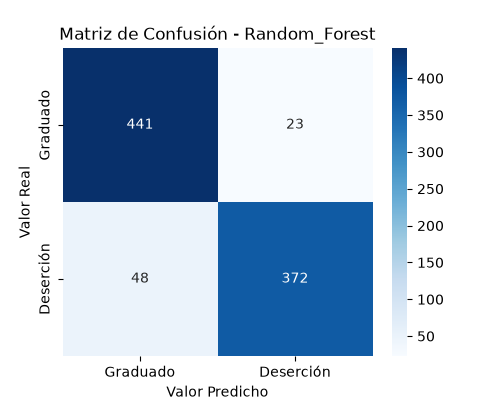
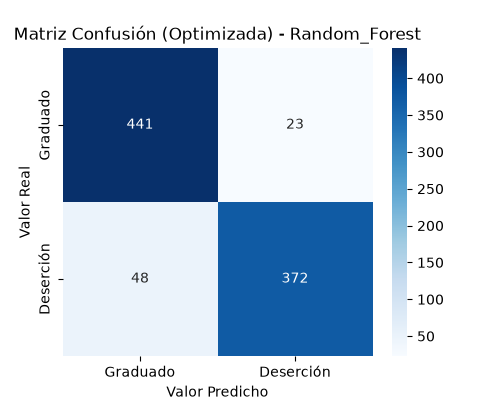
feat(ml): profesionalizar pipeline con GridSearchCV y SelectKBest

Changed region(s): [[0.03, 0.06, 0.84, 0.12]]

diff --git a/notebooks/src/model.py b/notebooks/src/model.py
@@ -2,51 +2,98 @@ import os
 import joblib
 import matplotlib.pyplot as plt
 import seaborn as sns
+from sklearn.pipeline import Pipeline
+from sklearn.preprocessing import StandardScaler
+from sklearn.feature_selection import SelectKBest, f_classif
 from sklearn.linear_model import LogisticRegression
 from sklearn.ensemble import RandomForestClassifier
-from sklearn.tree import DecisionTreeClassifier
-from sklearn.metrics import accuracy_score, confusion_matrix
-from sklearn.model_selection import cross_val_score
+from sklearn.model_selection import GridSearchCV
+from sklearn.metrics import accuracy_score, confusion_matrix, classification_report, roc_auc_score
 from notebooks.src.config import DIRECTORIO_GRAFICOS, DIRECTORIO_MODELOS
 
 def fase_4_entrenamiento_y_experimentos(X_entrenamiento, y_entrenamiento, X_prueba, y_prueba):
-    print('\n=== FASE 4: ENTRENAMIENTO Y EXPERIMENTOS ===')
-    modelos_a_evaluar = {'Regresion_Logistica': LogisticRegression(max_iter=1000, random_state=42), 'Arbol_de_Decision': DecisionTreeClassifier(random_state=42), 'Random_Forest': RandomForestClassifier(n_estimators=100, random_state=42)}
-    resultados_precision = {}
+    print('\n=== FASE 4: ENTRENAMIENTO AVANZADO Y TUNING (GridSearchCV) ===')
+    
+    # Definición de Pipelines base
+    pipe_lr = Pipeline([
+        ('scaler', StandardScaler()),
+        ('selector', SelectKBest(score_func=f_classif)),
+        ('classifier', LogisticRegression(random_state=42, max_iter=2000))
+    ])
+    
+    pipe_rf = Pipeline([
+        ('scaler', StandardScaler()),
+        ('selector', SelectKBest(score_func=f_classif)),
+        ('classifier', RandomForestClassifier(random_state=42))
+    ])
+    
+    # Grillas de Hiperparámetros
+    param_grid_lr = {
+        'selector__k': [10, 15, 'all'],
+        'classifier__C': [0.1, 1.0, 10.0]
+    }
+    
+    param_grid_rf = {
+        'selector__k': [10, 15, 'all'],
+        'classifier__n_estimators': [50, 100],
+        'classifier__max_depth': [None, 10, 20]
+    }
+    
+    grids = {
+        'Regresion_Logistica': GridSearchCV(pipe_lr, param_grid_lr, cv=5, scoring='f1', n_jobs=-1),
+        'Random_Forest': GridSearchCV(pipe_rf, param_grid_rf, cv=5, scoring='f1', n_jobs=-1)
+    }
+    
+    resultados_f1 = {}
     mejor_modelo = None
-    mejor_precision = 0
-    for nombre_modelo, modelo in modelos_a_evaluar.items():
-        print(f'\n  [Experimento] Entrenando modelo: {nombre_modelo}...')
-        puntajes_cv = cross_val_score(modelo, X_entrenamiento, y_entrenamiento, cv=5, scoring='accuracy')
-        print(f'    - Precisión Validación Cruzada: {puntajes_cv.mean():.4f} (+/- {puntajes_cv.std() * 2:.4f})')
-        modelo.fit(X_entrenamiento, y_entrenamiento)
-        predicciones = modelo.predict(X_prueba)
-        precision_prueba = accuracy_score(y_prueba, predicciones)
-        resultados_precision[nombre_modelo] = precision_prueba
-        print(f'    - Precisión en Prueba (Accuracy): {precision_prueba:.4f}')
+    mejor_f1 = 0
+    nombre_mejor_modelo = ""
+    
+    for nombre_modelo, grid in grids.items():
+        print(f'\n  [GridSearchCV] Optimizando hiperparámetros para: {nombre_modelo}...')
+        grid.fit(X_entrenamiento, y_entrenamiento)
+        
+        modelo_optimizado = grid.best_estimator_
+        print(f'    - Mejores parámetros: {grid.best_params_}')
+        
+        predicciones = modelo_optimizado.predict(X_prueba)
+        predicciones_proba = modelo_optimizado.predict_proba(X_prueba)[:, 1]
+        
+        # Calcular múltiples métricas
+        roc_auc = roc_auc_score(y_prueba, predicciones_proba)
+        
+        print(f'    - Reporte de Clasificación en Prueba:\n{classification_report(y_prueba, predicciones)}')
+        print(f'    - ROC-AUC: {roc_auc:.4f}')
+        
+        # Guardaremos el modelo en base a su score del Grid (F1 validacion cruzada)
+        score_cv = grid.best_score_
+        resultados_f1[nombre_modelo] = score_cv
+        
         matriz_conf = confusion_matrix(y_prueba, predicciones)
         plt.figure(figsize=(5, 4))
         sns.heatmap(matriz_conf, annot=True, fmt='d', cmap='Blues', xticklabels=['Graduado', 'Deserción'], yticklabels=['Graduado', 'Deserción'])
-        plt.title(f'Matriz de Confusión - {nombre_modelo}')
+        plt.title(f'Matriz Confusión (Optimizada) - {nombre_modelo}')
         plt.ylabel('Valor Real')
         plt.xlabel('Valor Predicho')
         plt.savefig(os.path.join(DIRECTORIO_GRAFICOS, f'matriz_confusion_{nombre_modelo}.png'))
         plt.close()
-        if precision_prueba > mejor_precision:
-            mejor_precision = precision_prueba
-            mejor_modelo = modelo
-    nombre_mejor_modelo = [k for k, v in resultados_precision.items() if v == mejor_precision][0]
-    return (resultados_precision, mejor_modelo, nombre_mejor_modelo)
+        
+        if score_cv > mejor_f1:
+            mejor_f1 = score_cv
+            mejor_modelo = modelo_optimizado
+            nombre_mejor_modelo = nombre_modelo
+            
+    return (resultados_f1, mejor_modelo, nombre_mejor_modelo)
 
 def fase_5_evaluacion_y_seleccion(resultados, nombre_mejor_modelo):
     print('\n=== FASE 5: EVALUACIÓN Y SELECCIÓN ===')
-    print('  Resumen de Experimentos (Precisión / Accuracy):')
-    for nombre, precision in resultados.items():
-        print(f'    * {nombre}: {precision:.4f}')
-    print(f'\n  >> EL MEJOR MODELO ELEGIDO ES: {nombre_mejor_modelo} con {resultados[nombre_mejor_modelo]:.4f} de precisión.')
+    print('  Resumen de Experimentos (F1-Score en Validación Cruzada):')
+    for nombre, score in resultados.items():
+        print(f'    * {nombre}: {score:.4f}')
+    print(f'\n  >> EL MEJOR MODELO ELEGIDO ES: {nombre_mejor_modelo} con {resultados[nombre_mejor_modelo]:.4f} de F1-Score.')
 
-def fase_6_guardar_salida(mejor_modelo, escalador):
+def fase_6_guardar_salida(mejor_pipeline):
     print('\n=== FASE 6: EXPORTACIÓN DEL MODELO ===')
-    joblib.dump(mejor_modelo, os.path.join(DIRECTORIO_MODELOS, 'modelo_desercion.pkl'))
-    joblib.dump(escalador, os.path.join(DIRECTORIO_MODELOS, 'escalador.pkl'))
-    print("  -> Modelo y escalador guardados exitosamente en la carpeta 'models/'.")
+    # Guardamos todo el pipeline en un solo archivo
+    joblib.dump(mejor_pipeline, os.path.join(DIRECTORIO_MODELOS, 'pipeline_desercion.pkl'))
+    print("  -> Pipeline completo (Escalador + Selector + Clasificador) guardado como 'pipeline_desercion.pkl'.")

diff --git a/app/modules/prediccion/providers/impl/modelo_provider_impl.py b/app/modules/prediccion/providers/impl/modelo_provider_impl.py
@@ -9,20 +9,20 @@ from app.core.exceptions.mensajes_error import MensajesDeError
 class ModeloProviderImpl(IModeloProvider):
 
     def __init__(self):
-        self.ruta_modelo = os.path.join(os.path.dirname(__file__), '../../../../../models/modelo_desercion.pkl')
+        self.ruta_modelo = os.path.join(os.path.dirname(__file__), '../../../../../models/pipeline_desercion.pkl')
 
     def ejecutar_prediccion(self, estudiante: EstudianteDominio) -> ResultadoDominio:
         if not os.path.exists(self.ruta_modelo):
             raise ExcepcionDeNegocio(MensajesDeError.MODELO_NO_ENTRENADO)
         try:
-            modelo = joblib.load(self.ruta_modelo)
+            pipeline = joblib.load(self.ruta_modelo)
             datos_diccionario = {'Marital status': estudiante.estado_civil, 'Application mode': estudiante.modo_aplicacion, 'Application order': estudiante.orden_aplicacion, 'Course': estudiante.curso, 'Daytime/evening attendance\t': estudiante.asistencia_diurna_nocturna, 'Previous qualification': estudiante.calificacion_previa, 'Admission grade': estudiante.nota_admision, 'Displaced': estudiante.desplazado, 'Educational special needs': estudiante.necesidades_educativas_especiales, 'Debtor': estudiante.deudor, 'Tuition fees up to date': estudiante.mensualidades_al_dia, 'Gender': estudiante.genero, 'Scholarship holder': estudiante.becario, 'Age at enrollment': estudiante.edad_al_matricularse, 'Curricular units 1st sem (enrolled)': estudiante.unidades_curriculares_1er_sem_inscritas, 'Curricular units 1st sem (evaluations)': estudiante.unidades_curriculares_1er_sem_evaluaciones, 'Curricular units 1st sem (approved)': estudiante.unidades_curriculares_1er_sem_aprobadas, 'Curricular units 1st sem (grade)': estudiante.unidades_curriculares_1er_sem_nota}
             datos_df = pd.DataFrame([datos_diccionario])
-            prediccion = modelo.predict(datos_df)[0]
+            prediccion = pipeline.predict(datos_df)[0]
             probabilidad_calculada = 0.0
-            if hasattr(modelo, 'predict_proba'):
-                probabilidades = modelo.predict_proba(datos_df)[0]
-                clases = list(modelo.classes_)
+            if hasattr(pipeline, 'predict_proba'):
+                probabilidades = pipeline.predict_proba(datos_df)[0]
+                clases = list(pipeline.classes_)
                 if 1 in clases:
                     indice_dropout = clases.index(1)
                     probabilidad_calculada = probabilidades[indice_dropout]

diff --git a/notebooks/src/preprocessing.py b/notebooks/src/preprocessing.py
@@ -1,6 +1,5 @@
 import pandas as pd
 from sklearn.model_selection import train_test_split
-from sklearn.preprocessing import StandardScaler
 from imblearn.over_sampling import SMOTE
 
 def fase_3_preprocesamiento(datos: pd.DataFrame):
@@ -19,8 +18,4 @@ def fase_3_preprocesamiento(datos: pd.DataFrame):
     caracteristicas_balanceadas, objetivo_balanceado = smote.fit_resample(caracteristicas, objetivo)
     print('  -> Dividiendo datos en Entrenamiento (80%) y Prueba (20%)...')
     X_entrenamiento, X_prueba, y_entrenamiento, y_prueba = train_test_split(caracteristicas_balanceadas, objetivo_balanceado, test_size=0.2, random_state=42)
-    print('  -> Estandarizando variables numéricas (StandardScaler)...')
-    escalador = StandardScaler()
-    X_entrenamiento_escalado = escalador.fit_transform(X_entrenamiento)
-    X_prueba_escalado = escalador.transform(X_prueba)
-    return (X_entrenamiento_escalado, X_prueba_escalado, y_entrenamiento, y_prueba, escalador)
+    return (X_entrenamiento, X_prueba, y_entrenamiento, y_prueba)

diff --git a/notebooks/pipeline.py b/notebooks/pipeline.py
@@ -17,13 +17,13 @@ def ejecutar_pipeline_completo():
     
     fase_2_analisis_exploratorio(datos)
     
-    X_entrenar, X_prueba, y_entrenar, y_prueba, escalador = fase_3_preprocesamiento(datos)
+    X_entrenar, X_prueba, y_entrenar, y_prueba = fase_3_preprocesamiento(datos)
     
-    resultados, mejor_modelo, nombre_mejor = fase_4_entrenamiento_y_experimentos(X_entrenar, y_entrenar, X_prueba, y_prueba)
+    resultados, mejor_pipeline, nombre_mejor = fase_4_entrenamiento_y_experimentos(X_entrenar, y_entrenar, X_prueba, y_prueba)
     
     fase_5_evaluacion_y_seleccion(resultados, nombre_mejor)
     
-    fase_6_guardar_salida(mejor_modelo, escalador)
+    fase_6_guardar_salida(mejor_pipeline)
     
     print("\n¡Pipeline ejecutado al 100% de forma modular!")
 

diff --git a/tests/conftest.py b/tests/conftest.py
@@ -1,6 +1,6 @@
 import pytest
 from app.modules.prediccion.schemas.prediccion_schema import PerfilEstudiante
-from app.modules.prediccion.domain.estudiante_dominio import EstudianteDominio, ResultadoDominio
+from app.modules.prediccion.domain.estudiante_dominio import ResultadoDominio
 from fastapi.testclient import TestClient
 from main import aplicacion
 

diff --git a/tests/unit/modules/prediccion/providers/test_modelo_provider.py b/tests/unit/modules/prediccion/providers/test_modelo_provider.py
@@ -1,6 +1,5 @@
 import pytest
 from unittest.mock import patch, Mock
-import os
 from app.modules.prediccion.providers.impl.modelo_provider_impl import ModeloProviderImpl
 from app.core.exceptions.errores_personalizados import ExcepcionDeNegocio
 from app.core.exceptions.mensajes_error import MensajesDeError

diff --git a/tests/unit/modules/prediccion/providers/test_modelo_provider_borde.py b/tests/unit/modules/prediccion/providers/test_modelo_provider_borde.py
@@ -1,5 +1,4 @@
 from unittest.mock import patch, Mock
-import pytest
 from app.modules.prediccion.providers.impl.modelo_provider_impl import ModeloProviderImpl
 
 @patch("app.modules.prediccion.providers.impl.modelo_provider_impl.joblib.load")